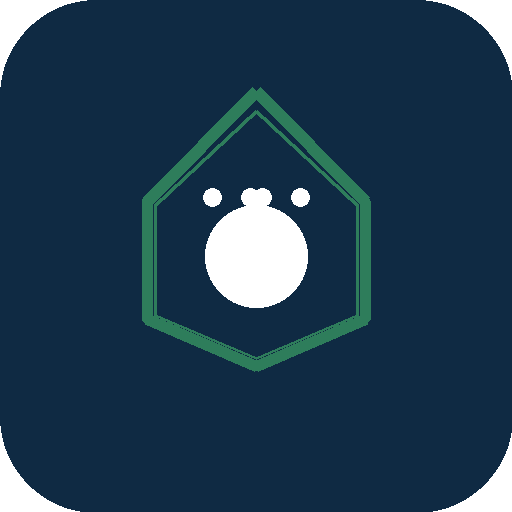
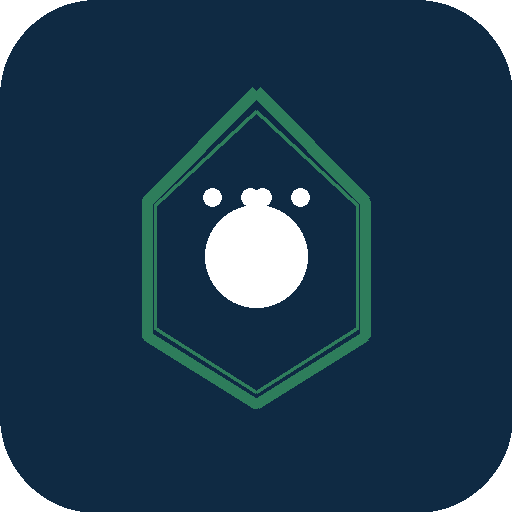
Растянуть щит по высоте вниз

Changed region(s): [[0.25, 0.625, 0.75, 0.8125]]

diff --git a/scripts/generate_icons.py b/scripts/generate_icons.py
@@ -25,21 +25,21 @@ def draw_paw(draw, cx, cy, scale=1.0):
 
 
 def draw_shield(draw, cx, cy, scale=1.0):
-    """Большой щит с двойным контуром."""
+    """Щит, растянут вниз."""
     outer = [
         (cx, cy - int(390 * scale)),
         (cx + int(258 * scale), cy - int(130 * scale)),
-        (cx + int(258 * scale), cy + int(150 * scale)),
-        (cx, cy + int(260 * scale)),
-        (cx - int(258 * scale), cy + int(150 * scale)),
+        (cx + int(258 * scale), cy + int(190 * scale)),
+        (cx, cy + int(350 * scale)),
+        (cx - int(258 * scale), cy + int(190 * scale)),
         (cx - int(258 * scale), cy - int(130 * scale)),
     ]
     inner = [
         (cx, cy - int(342 * scale)),
         (cx + int(238 * scale), cy - int(120 * scale)),
-        (cx + int(238 * scale), cy + int(140 * scale)),
-        (cx, cy + int(240 * scale)),
-        (cx - int(238 * scale), cy + int(140 * scale)),
+        (cx + int(238 * scale), cy + int(170 * scale)),
+        (cx, cy + int(320 * scale)),
+        (cx - int(238 * scale), cy + int(170 * scale)),
         (cx - int(238 * scale), cy - int(120 * scale)),
     ]
     draw.line(outer + [outer[0]], fill=SHIELD, width=int(28 * scale), joint="curve")
